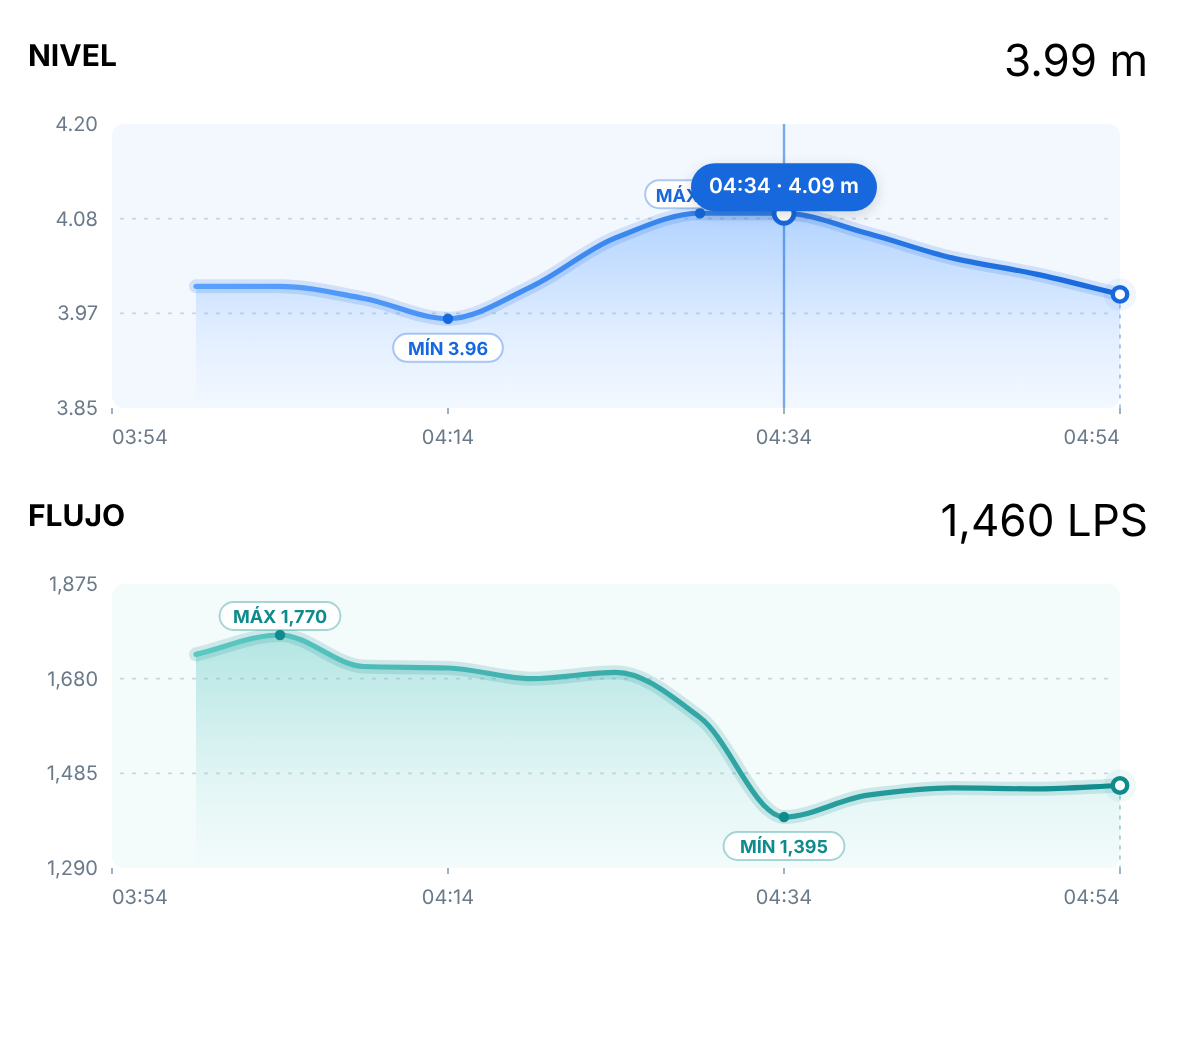
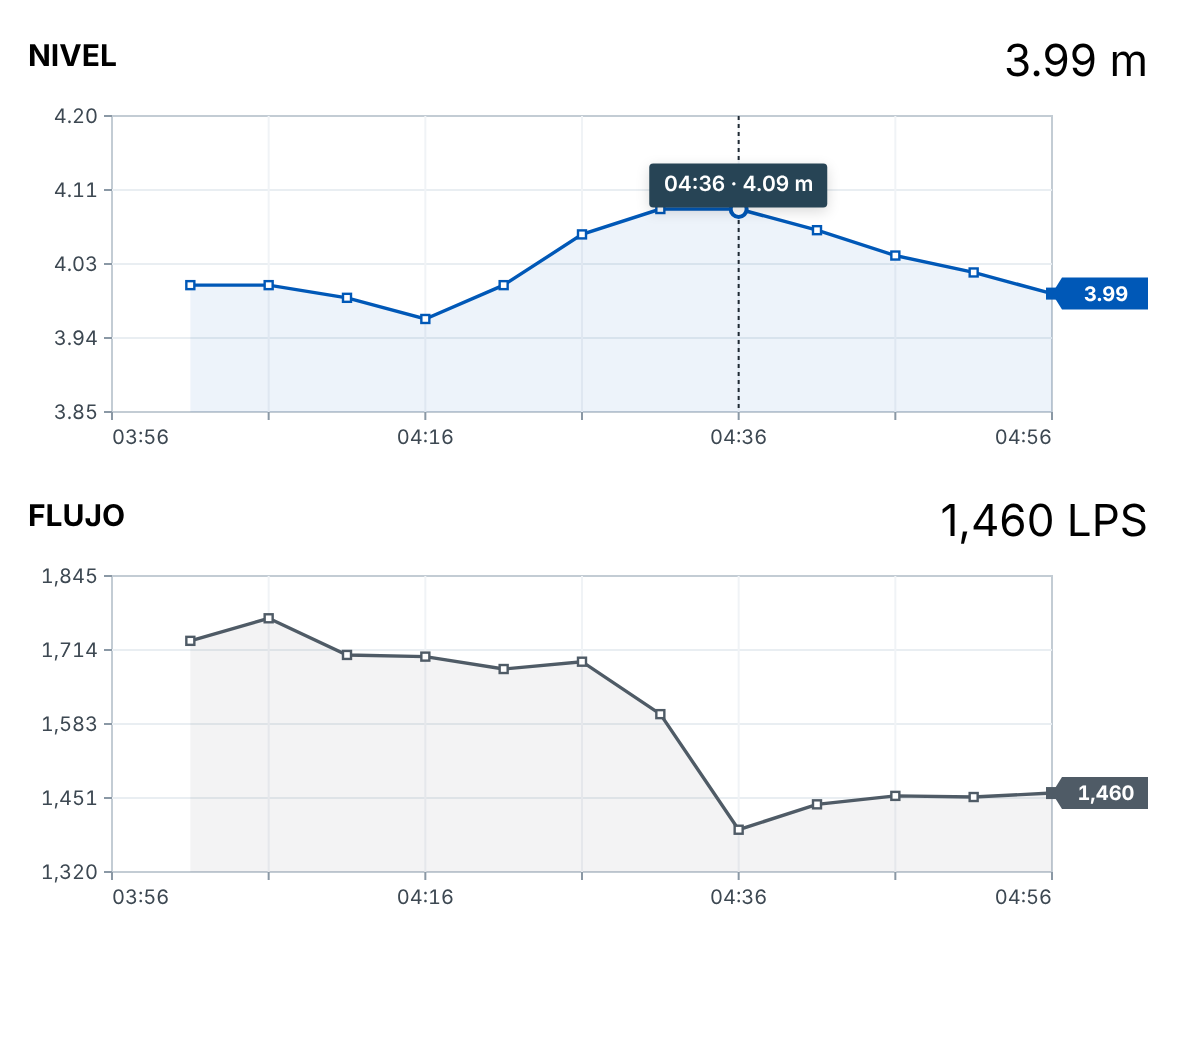
Gráficas de presentación con estilo de tendencia SCADA
Claude-Session: https://claude.ai/code/session_011FB5um3d1YqJKD5tDG6dWP

diff --git a/propuesta-3d/codigo_pro/js/monterreyv_3d.js b/propuesta-3d/codigo_pro/js/monterreyv_3d.js
@@ -1929,7 +1929,7 @@ void main(){
     #presentationPanel .mv-dh-foot span:first-child{display:none!important}
     #presentationPanel .mv-dh-foot span:last-child{font-weight:500;text-align:right}
     #presentationPanel .mv-dh-empty{display:flex;align-items:center;justify-content:center;min-height:100px;height:100%;padding:9px;text-align:center;color:#6b7c86;font-size:11px;line-height:1.5}
-    #presentationPanel .mv-dh-tooltip{position:absolute;z-index:5;pointer-events:none;background:#274455;color:#fff;padding:5px 9px;border-radius:999px;font-weight:600;font-size:10.5px;line-height:1.35;box-shadow:0 2px 7px rgba(0,0,0,.15);white-space:nowrap;transform:translate(-50%,-105%)}
+    #presentationPanel .mv-dh-tooltip{position:absolute;z-index:5;pointer-events:none;background:#274455;color:#fff;padding:4px 7px;border-radius:2px;font-weight:600;font-size:10.5px;line-height:1.35;box-shadow:0 2px 7px rgba(0,0,0,.15);white-space:nowrap;transform:translate(-50%,-105%)}
     #presentationPanel .mv-dh-tooltip[hidden]{display:none}
     #presentationPanel .mv-dh-cursor{pointer-events:none}
     #presentationPanel .mv-dh-message{margin:0 11px 10px;padding:7px 0;border:0;border-top:1px solid #e0e7ed;border-radius:0;background:#fff;color:#667b88;font-size:10px;line-height:1.45}
@@ -2230,7 +2230,7 @@ void main(){
   }
 
   function mvHistoryChart(plot, samples, unit, hue) {
-    /* MV PRO: gráfica rediseñada (curva suave, degradado, máximo/mínimo y valor actual) */
+    /* MV PRO: gráfica estilo tendencia SCADA (línea por lectura, rejilla técnica, valor actual en el eje) */
     const endTime = Date.now();
     const startTime = endTime - MV_HISTORY_WINDOW_MS;
     const recent = samples.filter(item => Array.isArray(item) && Number.isFinite(item[0]) && Number.isFinite(item[1]) && item[0] >= startTime && item[0] <= endTime + 60000).sort((a, b) => a[0] - b[0]);
@@ -2239,57 +2239,39 @@ void main(){
     const fmt = v => unit === 'm' ? v.toFixed(2) : mvHistoryNumber.format(v);
     const values = recent.map(point => point[1]);
     const minValue = Math.min(...values), maxValue = Math.max(...values);
-    const spread = Math.max(unit === 'm' ? .11 : 2, (maxValue - minValue) * .28);
+    const spread = Math.max(unit === 'm' ? .11 : 2, (maxValue - minValue) * .20);
     const low = Math.max(0, minValue - spread), high = Math.max(maxValue + spread, low + (unit === 'm' ? .2 : 3));
-    const W = Math.max(200, Math.round(plot.clientWidth || 380)), H = Math.max(128, Math.round(plot.clientHeight || 145)), L = 42, R = 14, T = 14, B = 24;
+    const W = Math.max(200, Math.round(plot.clientWidth || 380)), H = Math.max(128, Math.round(plot.clientHeight || 145)), L = 42, R = 48, T = 10, B = 22;
     const pw = W - L - R, ph = H - T - B, base = T + ph;
     const xAt = t => L + (t - startTime) / (endTime - startTime) * pw;
     const yAt = v => T + (high - v) / (high - low) * ph;
     const coords = recent.map(point => [xAt(point[0]), yAt(point[1])]);
-    const color = isFlow ? '#0f8b8d' : '#1668dc';
-    const colorSoft = isFlow ? '#5cc8c2' : '#5aa2ff';
-    const gid = 'mvg' + Math.random().toString(36).slice(2, 9);
-    const font = 'font-family="Segoe UI,Inter,Arial" font-size="10"';
-    let grid = `<defs>
-      <linearGradient id="${gid}a" x1="0" y1="0" x2="0" y2="1"><stop offset="0" stop-color="${colorSoft}" stop-opacity=".42"/><stop offset=".65" stop-color="${colorSoft}" stop-opacity=".10"/><stop offset="1" stop-color="${colorSoft}" stop-opacity="0"/></linearGradient>
-      <linearGradient id="${gid}l" x1="0" y1="0" x2="1" y2="0"><stop offset="0" stop-color="${colorSoft}"/><stop offset="1" stop-color="${color}"/></linearGradient>
-    </defs>`;
-    grid += `<rect x="${L}" y="${T}" width="${pw}" height="${ph}" rx="6" fill="${isFlow ? '#f3fbfb' : '#f3f8ff'}"/>`;
-    for (let i = 0; i <= 3; i++) {
-      const y = T + ph * i / 3;
-      const value = high - (high - low) * i / 3;
-      if (i > 0 && i < 3) grid += `<line x1="${L + 4}" x2="${W - R - 4}" y1="${y.toFixed(2)}" y2="${y.toFixed(2)}" stroke="#c9d6e2" stroke-width=".8" stroke-dasharray="2 4"/>`;
-      grid += `<text x="${L - 7}" y="${(y + 3.5).toFixed(2)}" text-anchor="end" fill="#6b7a89" ${font}>${fmt(value)}</text>`;
+    const color = isFlow ? '#4f5b66' : '#0058b7';
+    const font = 'font-family="Segoe UI,Arial" font-size="10" style="font-variant-numeric:tabular-nums"';
+    let grid = `<rect x="${L}" y="${T}" width="${pw}" height="${ph}" fill="#ffffff" stroke="#c3ccd4" stroke-width="1"/>`;
+    for (let i = 0; i <= 4; i++) {
+      const y = T + ph * i / 4;
+      const value = high - (high - low) * i / 4;
+      if (i > 0 && i < 4) grid += `<line x1="${L}" x2="${L + pw}" y1="${y.toFixed(2)}" y2="${y.toFixed(2)}" stroke="#e9eef2" stroke-width="1"/>`;
+      grid += `<line x1="${L - 4}" x2="${L}" y1="${y.toFixed(2)}" y2="${y.toFixed(2)}" stroke="#8a98a5" stroke-width="1"/>`;
+      grid += `<text x="${L - 7}" y="${(y + 3.5).toFixed(2)}" text-anchor="end" fill="#3d4852" ${font}>${unit === 'm' ? value.toFixed(2) : mvHistoryNumber.format(Math.round(value))}</text>`;
     }
-    for (let i = 0; i <= 3; i++) {
-      const x = L + pw * i / 3;
-      const when = startTime + (endTime - startTime) * i / 3;
-      grid += `<line x1="${x.toFixed(2)}" x2="${x.toFixed(2)}" y1="${base}" y2="${base + 3}" stroke="#9fb0bf" stroke-width="1"/>`;
-      grid += `<text x="${x.toFixed(2)}" y="${H - 6}" text-anchor="${i === 0 ? 'start' : i === 3 ? 'end' : 'middle'}" fill="#6b7a89" ${font}>${mvHistoryFormatTime(when)}</text>`;
+    for (let i = 0; i <= 6; i++) {
+      const x = L + pw * i / 6;
+      const when = startTime + (endTime - startTime) * i / 6;
+      if (i > 0 && i < 6) grid += `<line x1="${x.toFixed(2)}" x2="${x.toFixed(2)}" y1="${T}" y2="${base}" stroke="#f0f3f6" stroke-width="1"/>`;
+      grid += `<line x1="${x.toFixed(2)}" x2="${x.toFixed(2)}" y1="${base}" y2="${base + 4}" stroke="#8a98a5" stroke-width="1"/>`;
+      if (i % 2 === 0) grid += `<text x="${x.toFixed(2)}" y="${H - 6}" text-anchor="${i === 0 ? 'start' : i === 6 ? 'end' : 'middle'}" fill="#3d4852" ${font}>${mvHistoryFormatTime(when)}</text>`;
     }
-    // curva monótona suave (sin picos falsos)
-    const smoothPath = pts => {
-      if (pts.length < 3) return pts.map((p, i) => (i ? 'L' : 'M') + p[0].toFixed(2) + ',' + p[1].toFixed(2)).join(' ');
-      const n = pts.length, dx = [], m = [], t = [];
-      for (let i = 0; i < n - 1; i++) { dx[i] = pts[i + 1][0] - pts[i][0]; m[i] = (pts[i + 1][1] - pts[i][1]) / Math.max(.0001, dx[i]); }
-      t[0] = m[0]; t[n - 1] = m[n - 2];
-      for (let i = 1; i < n - 1; i++) t[i] = m[i - 1] * m[i] <= 0 ? 0 : 3 * (dx[i - 1] + dx[i]) / ((2 * dx[i] + dx[i - 1]) / m[i - 1] + (dx[i] + 2 * dx[i - 1]) / m[i]);
-      let d = 'M' + pts[0][0].toFixed(2) + ',' + pts[0][1].toFixed(2);
-      for (let i = 0; i < n - 1; i++) {
-        const h = dx[i] / 3;
-        d += ` C${(pts[i][0] + h).toFixed(2)},${(pts[i][1] + t[i] * h).toFixed(2)} ${(pts[i + 1][0] - h).toFixed(2)},${(pts[i + 1][1] - t[i + 1] * h).toFixed(2)} ${pts[i + 1][0].toFixed(2)},${pts[i + 1][1].toFixed(2)}`;
-      }
-      return d;
-    };
-    let strokes = '', segment = [];
+    let strokes = '', dots = '', segment = [];
     const flush = () => {
       if (!segment.length) return;
+      const path = segment.map((pt, index) => (index ? 'L' : 'M') + pt[0].toFixed(2) + ',' + pt[1].toFixed(2)).join(' ');
       if (segment.length > 1) {
-        const path = smoothPath(segment);
-        strokes += `<path d="${path} L${segment[segment.length - 1][0].toFixed(2)},${base} L${segment[0][0].toFixed(2)},${base} Z" fill="url(#${gid}a)"/>`;
-        strokes += `<path d="${path}" fill="none" stroke="${color}" stroke-opacity=".16" stroke-width="7" stroke-linecap="round" stroke-linejoin="round"/>`;
-        strokes += `<path d="${path}" fill="none" stroke="url(#${gid}l)" stroke-width="2.6" stroke-linecap="round" stroke-linejoin="round"/>`;
-      } else strokes += `<circle cx="${segment[0][0].toFixed(2)}" cy="${segment[0][1].toFixed(2)}" r="3" fill="${color}"/>`;
+        strokes += `<path d="${path} L${segment[segment.length - 1][0].toFixed(2)},${base} L${segment[0][0].toFixed(2)},${base} Z" fill="${color}" fill-opacity=".07"/>`;
+        strokes += `<path d="${path}" fill="none" stroke="${color}" stroke-width="1.7" stroke-linejoin="miter"/>`;
+      }
+      for (const pt of segment) dots += `<rect x="${(pt[0] - 2).toFixed(2)}" y="${(pt[1] - 2).toFixed(2)}" width="4" height="4" fill="#ffffff" stroke="${color}" stroke-width="1.2"/>`;
       segment = [];
     };
     for (let i = 0; i < coords.length; i++) {
@@ -2297,29 +2279,21 @@ void main(){
       segment.push(coords[i]);
     }
     flush();
-    // marcas de máximo y mínimo
-    const pill = (x, y, text, below) => {
-      const w = text.length * 5.6 + 10, px = Math.min(W - R - w / 2, Math.max(L + w / 2, x)), py = below ? Math.min(base - 2, y + 15) : Math.max(T + 9, y - 9);
-      return `<g><rect x="${(px - w / 2).toFixed(1)}" y="${(py - 7.5).toFixed(1)}" width="${w.toFixed(1)}" height="14" rx="7" fill="#ffffff" stroke="${color}" stroke-opacity=".35"/><text x="${px.toFixed(1)}" y="${(py + 3.2).toFixed(1)}" text-anchor="middle" fill="${color}" font-family="Segoe UI,Inter,Arial" font-size="9" font-weight="700">${text}</text></g>`;
-    };
-    let marks = '';
-    if (recent.length > 2 && maxValue - minValue > (unit === 'm' ? .005 : .5)) {
-      const iMax = values.indexOf(maxValue), iMin = values.indexOf(minValue);
-      if (iMax !== recent.length - 1) marks += `<circle cx="${coords[iMax][0].toFixed(2)}" cy="${coords[iMax][1].toFixed(2)}" r="2.6" fill="${color}"/>` + pill(coords[iMax][0], coords[iMax][1], 'MÁX ' + fmt(maxValue), false);
-      if (iMin !== recent.length - 1) marks += `<circle cx="${coords[iMin][0].toFixed(2)}" cy="${coords[iMin][1].toFixed(2)}" r="2.6" fill="${color}"/>` + pill(coords[iMin][0], coords[iMin][1], 'MÍN ' + fmt(minValue), true);
-    }
     const last = coords[coords.length - 1];
-    const lastDot = `<line x1="${last[0].toFixed(2)}" x2="${last[0].toFixed(2)}" y1="${last[1].toFixed(2)}" y2="${base}" stroke="${color}" stroke-opacity=".35" stroke-dasharray="2 3"/>
-      <circle cx="${last[0].toFixed(2)}" cy="${last[1].toFixed(2)}" r="5" fill="${color}" fill-opacity=".25"><animate attributeName="r" values="4;9;4" dur="2s" repeatCount="indefinite"/><animate attributeName="fill-opacity" values=".35;0;.35" dur="2s" repeatCount="indefinite"/></circle>
-      <circle cx="${last[0].toFixed(2)}" cy="${last[1].toFixed(2)}" r="3.6" fill="#fff" stroke="${color}" stroke-width="2.2"/>`;
-    plot.innerHTML = `<svg xmlns="http://www.w3.org/2000/svg" viewBox="0 0 ${W} ${H}" preserveAspectRatio="none" role="presentation">${grid}${strokes}${marks}${lastDot}<g class="mv-dh-cursor" visibility="hidden"><line x1="0" x2="0" y1="${T}" y2="${base}" stroke="${color}" stroke-width="1.2" stroke-opacity=".55"/><circle cx="0" cy="0" r="5" fill="white" stroke="${color}" stroke-width="2.4"/></g></svg><div class="mv-dh-tooltip" hidden></div>`;
+    const tagText = fmt(recent[recent.length - 1][1]);
+    const tagW = Math.max(R - 4, tagText.length * 6.2 + 10);
+    const tagY = Math.min(base - 8, Math.max(T + 8, last[1]));
+    const lastDot = `<line x1="${last[0].toFixed(2)}" x2="${(L + pw).toFixed(2)}" y1="${last[1].toFixed(2)}" y2="${last[1].toFixed(2)}" stroke="${color}" stroke-width="1" stroke-dasharray="3 2"/>
+      <path d="M${(L + pw).toFixed(2)},${tagY.toFixed(2)} l5,-8 h${tagW.toFixed(2)} v16 h-${tagW.toFixed(2)} z" fill="${color}"/>
+      <text x="${(L + pw + 5 + tagW / 2).toFixed(2)}" y="${(tagY + 3.6).toFixed(2)}" text-anchor="middle" fill="#ffffff" font-family="Segoe UI,Arial" font-size="10" font-weight="700" style="font-variant-numeric:tabular-nums">${tagText}</text>
+      <rect x="${(last[0] - 3).toFixed(2)}" y="${(last[1] - 3).toFixed(2)}" width="6" height="6" fill="${color}"/>`;
+    plot.innerHTML = `<svg xmlns="http://www.w3.org/2000/svg" viewBox="0 0 ${W} ${H}" preserveAspectRatio="none" role="presentation">${grid}${strokes}${dots}${lastDot}<g class="mv-dh-cursor" visibility="hidden"><line x1="0" x2="0" y1="${T}" y2="${base}" stroke="#1f2a33" stroke-width="1" stroke-dasharray="2 2"/><circle cx="0" cy="0" r="4" fill="white" stroke="${color}" stroke-width="2"/></g></svg><div class="mv-dh-tooltip" hidden></div>`;
     plot.dataset.mvChartSize = W + 'x' + H;
     const svg = plot.querySelector('svg');
     const cursor = svg.querySelector('.mv-dh-cursor');
     const guide = cursor.querySelector('line');
     const circle = cursor.querySelector('circle');
     const tooltip = plot.querySelector('.mv-dh-tooltip');
-    tooltip.style.background = color;
     const hide = () => { cursor.setAttribute('visibility', 'hidden'); tooltip.hidden = true; };
     svg.addEventListener('pointermove', event => {
       const bounds = svg.getBoundingClientRect();
